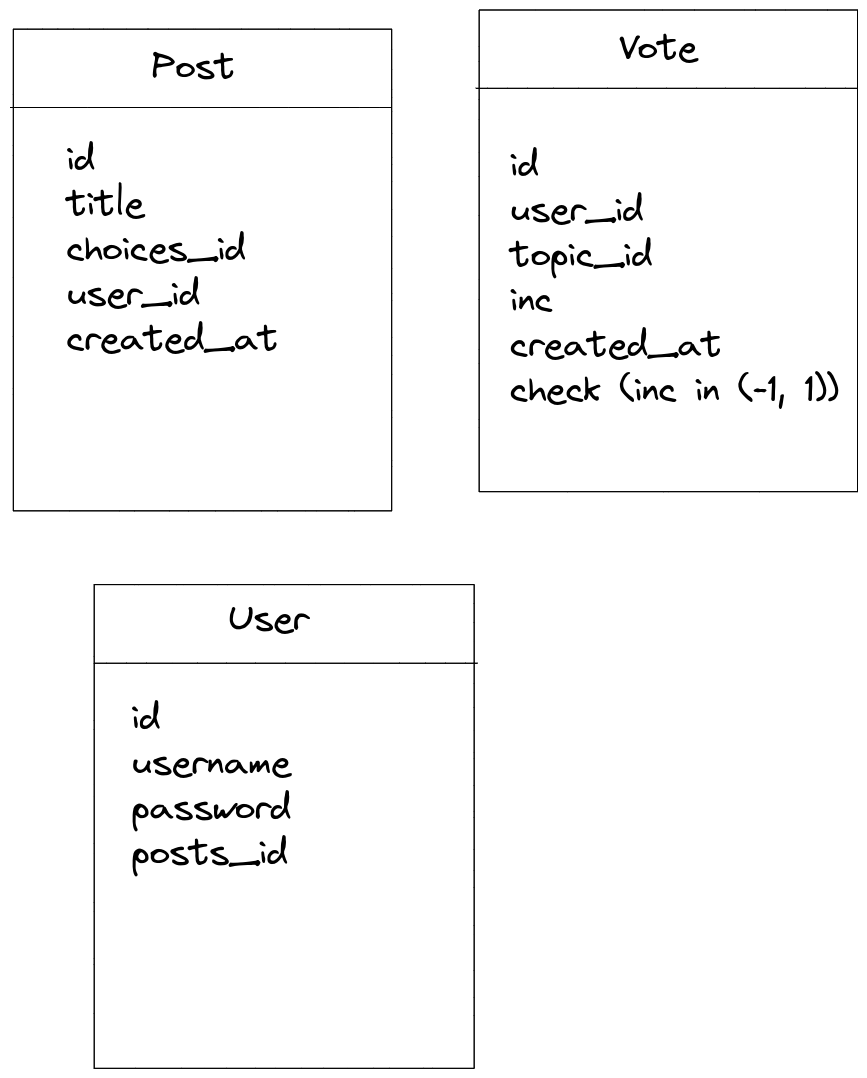
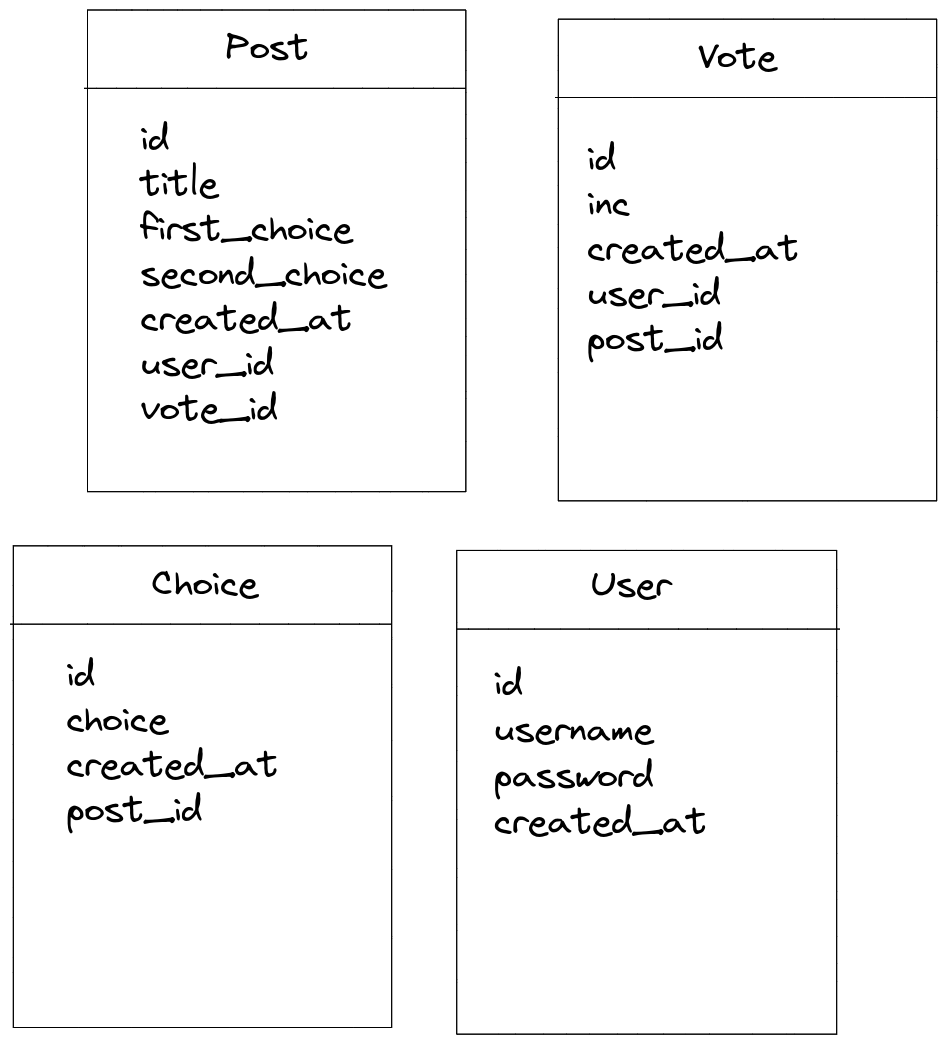
fix migrations

diff --git a/pollme-api/src/main.rs b/pollme-api/src/main.rs
@@ -43,34 +43,44 @@ CREATE TABLE IF NOT EXISTS public.user (
     .await?;
 
     sqlx::query(
-        "
+        r#"
 CREATE TABLE IF NOT EXISTS public.post (
     id serial NOT NULL,
     title character varying NOT NULL,
     first_choice character varying NOT NULL,
     second_choice character varying NOT NULL,
     created_at timestamp without time zone NOT NULL DEFAULT NOW(),
+    user_id bigint,
+    vote_id bigint,
     PRIMARY KEY (id),
-    FOREIGN KEY (user_id) REFERENCES user(id),
-    FOREIGN KEY (vote_id) REFERENCES vote(id)
+    FOREIGN KEY (user_id) REFERENCES "user"(id)
 );
-    ",
+    "#,
     )
     .execute(&pool)
     .await?;
 
     sqlx::query(
-        "
+        r#"
 CREATE TABLE IF NOT EXISTS public.vote (
     id serial NOT NULL,
     inc bigint NOT NULL,
     created_at timestamp without time zone NOT NULL DEFAULT NOW(),
+    user_id bigint,
+    post_id bigint,
     check (inc in (-1, 1)),
     PRIMARY KEY (id),
-    FOREIGN KEY (user_id) REFERENCES user(id),
+    FOREIGN KEY (user_id) REFERENCES "user"(id),
     FOREIGN KEY (post_id) REFERENCES post(id)
 );
-    ",
+    "#,
+    )
+    .execute(&pool)
+    .await?;
+
+    sqlx::query(
+        r#"alter table public.post
+add constraint post_votes FOREIGN KEY (vote_id) REFERENCES vote(id);"#,
     )
     .execute(&pool)
     .await?;
@@ -81,14 +91,16 @@ CREATE TABLE IF NOT EXISTS public.choice (
     id serial NOT NULL,
     choice character varying NOT NULL,
     created_at timestamp without time zone NOT NULL DEFAULT NOW(),
+    post_id bigint,
     PRIMARY KEY (id),
-    FOREIGN KEY (post_id) REFERENCES post(id),
-    FOREIGN KEY (vote_id) REFERENCES vote(id)
+    FOREIGN KEY (post_id) REFERENCES post(id)
 );
     ",
     )
     .execute(&pool)
     .await?;
+
+    panic!("Done with migrations now I'm going to panic");
 
     let (code,): (String,) = sqlx::query_as("SELECT code from country where name = 'Aruba'")
         .fetch_one(&pool)
